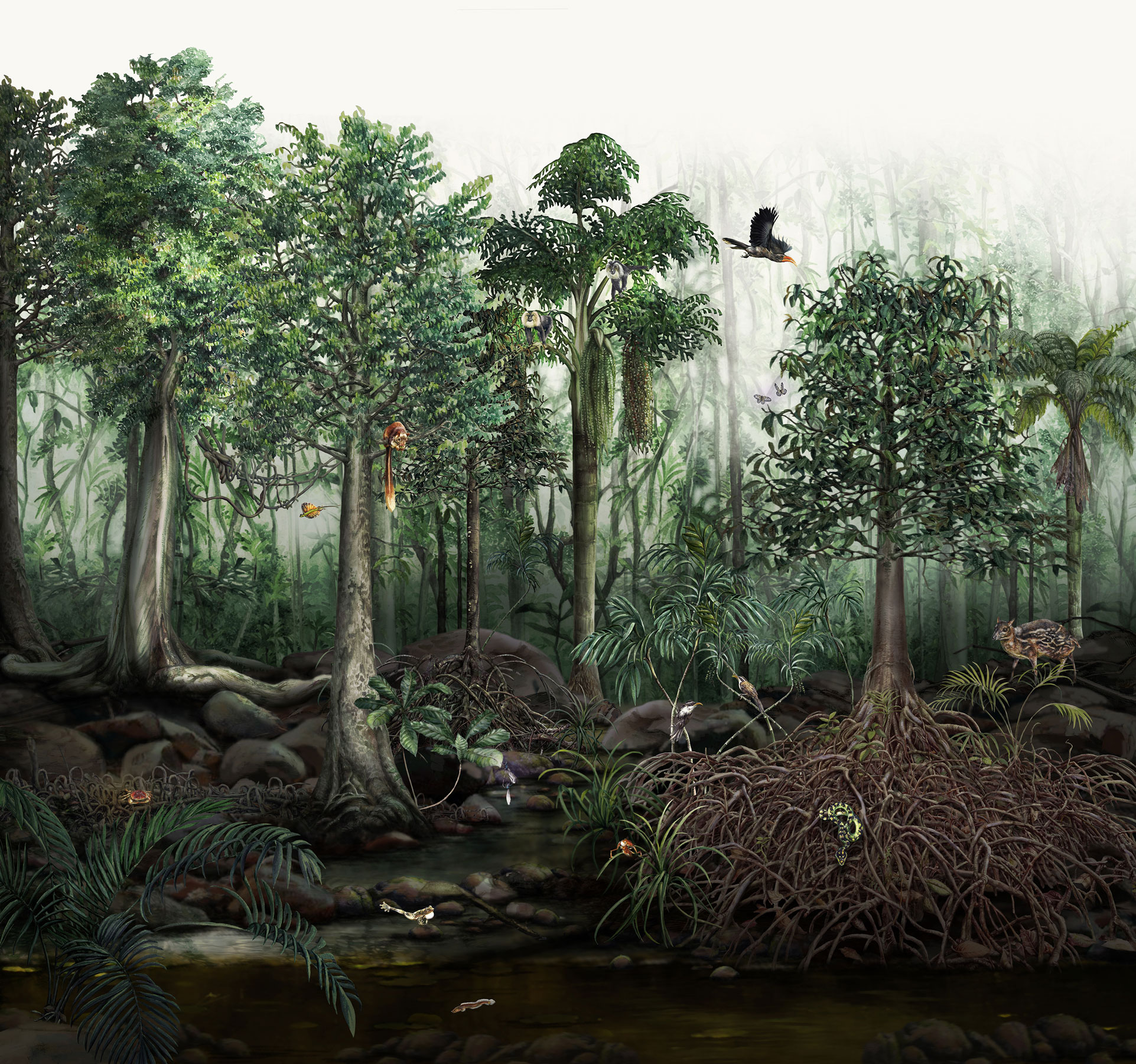
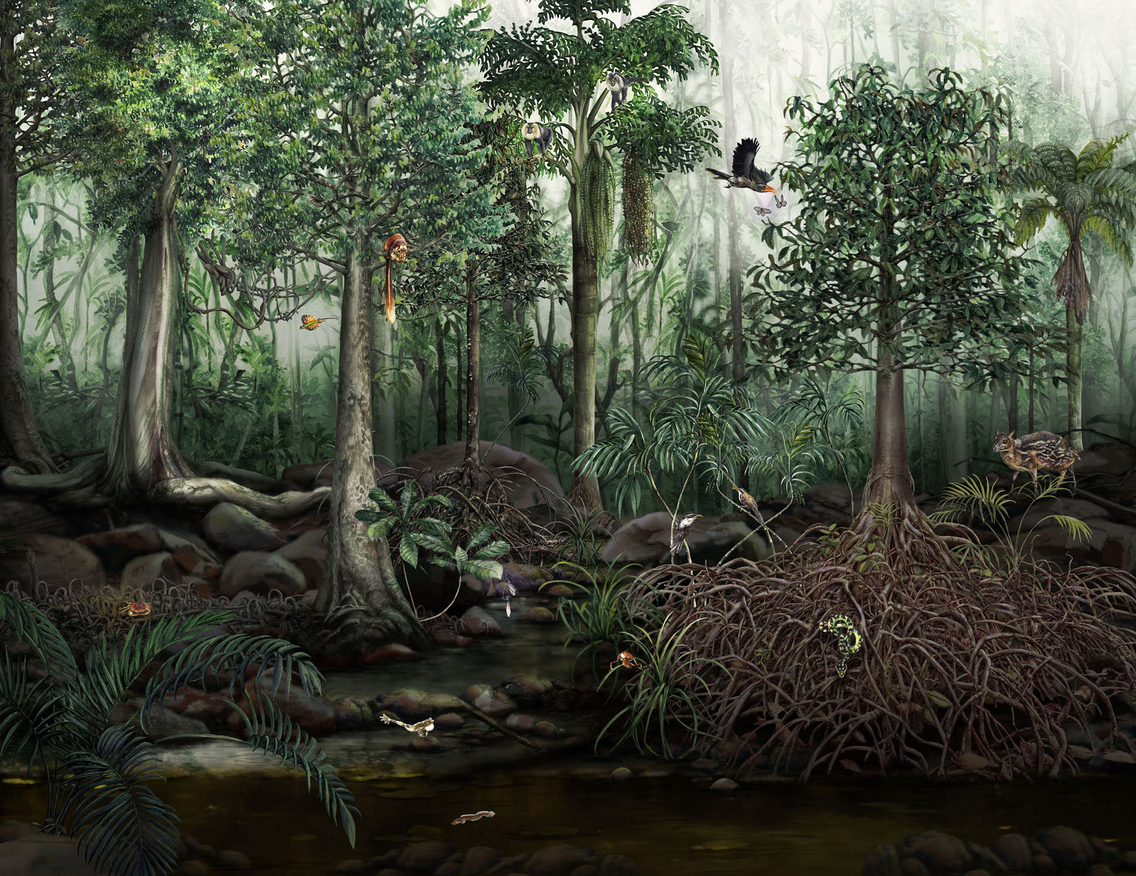
img edit

diff --git a/app/Data/Info.tsx b/app/Data/Info.tsx
@@ -1,7 +1,7 @@
 export const info=[
     {
         
-        position:{left:'65.6%',top:'22.4%'},
+        position:{left:'65.6%',top:'5.4%'},
         img_url:"/hornbill.jpg",
         title:"Malabar Grey Hornbill",
         sciName:"Ocyceros griseus",
@@ -12,7 +12,7 @@ export const info=[
     },
     {
        
-        position:{left:'95.6%',top:'32.4%'},
+        position:{left:'94.6%',top:'15.4%'},
         img_url:"/02-04-tree-fern.jpg",
         title:"Nilgiri Tree Fern",
         sciName:"Cyathea nilgiriensis",
@@ -24,7 +24,7 @@ export const info=[
     ,
     {
        
-        position:{left:'47.6%',top:'30.4%'},
+        position:{left:'47.6%',top:'2.4%'},
         img_url:"/02-04-macaque-768x579.jpg",
         title:"Lion-Tailed Macaques",
         sciName:"Macaca silenus",
@@ -36,7 +36,7 @@ export const info=[
     ,
     {
        
-        position:{left:'33.6%',top:'41.4%'},
+        position:{left:'33.6%',top:'21.4%'},
         img_url:"/02-04-squirrel-768x579.jpg",
         title:"Malabar Giant Squirrel",
         sciName:"Ratufa indica",
@@ -48,7 +48,7 @@ export const info=[
     ,
     {
        
-        position:{left:'27.6%',top:'47.4%'},
+        position:{left:'27.6%',top:'30.4%'},
         img_url:"/02-04-lizard-768x579.jpg",
         title:"Indian Flying Lizard",
         sciName:"Draco dussumieri",
@@ -60,7 +60,7 @@ export const info=[
     ,
     {
        
-        position:{left:'13.6%',top:'57.4%'},
+        position:{left:'12.6%',top:'57.4%'},
         img_url:"/02-04-lophopetalum-768x579.jpg",
         title:"Wight’s Crest-Petal",
         sciName:"Lophopetalum wightianum",
@@ -72,7 +72,7 @@ export const info=[
     ,
     {
        
-        position:{left:'88.6%',top:'60.4%'},
+        position:{left:'88.6%',top:'52.4%'},
         img_url:"/02-04-mouse-deer-768x579.jpg",
         title:"Indian Mouse Deer (Chevrotain)",
         sciName:"Moschiola indica",
@@ -83,7 +83,7 @@ export const info=[
     ,
     {
        
-        position:{left:'78.6%',top:'65.4%'},
+        position:{left:'78.6%',top:'78.4%'},
         img_url:"/02-04-myristica-768x579.jpg",
         title:"Magnificent Nutmeg",
         sciName:"Myristica magnifica",
@@ -94,7 +94,7 @@ export const info=[
     ,
     {
        
-        position:{left:'60.6%',top:'66.4%'},
+        position:{left:'60.6%',top:'64.4%'},
         img_url:"/02-04-warblers-768x579.jpg",
         title:"Indian Scimitar Babbler",
         sciName:"Pomatorhinus horsfieldii",
@@ -127,7 +127,7 @@ export const info=[
     ,
     {
        
-        position:{left:'54.6%',top:'79.4%'},
+        position:{left:'54.6%',top:'85.4%'},
         img_url:"/02-04-mercuriana-768x579.jpg",
         title:"Myristica Swamp Tree Frog",
         sciName:"Mercurana myristicapalustris",
@@ -138,7 +138,7 @@ export const info=[
     ,
     {
        
-        position:{left:'73.6%',top:'76.4%'},
+        position:{left:'73.6%',top:'80.4%'},
         img_url:"/02-04-pit-viper-768x579.jpg",
         title:"Malabar Pit Viper",
         sciName:"Trimersurus malabaricus",
@@ -149,7 +149,7 @@ export const info=[
     ,
     {
        
-        position:{left:'15.6%',top:'72.4%'},
+        position:{left:'15.6%',top:'75.4%'},
         img_url:"/02-04-gymnacranthera-768x579.jpg",
         title:"Kanara Nutmeg",
         sciName:"Gymnacranthera canarica",
@@ -160,7 +160,7 @@ export const info=[
     ,
     {
        
-        position:{left:'10.6%',top:'74.4%'},
+        position:{left:'10.6%',top:'79.4%'},
         img_url:"/02-04-crab.jpg",
         title:"Crab",
         sciName:"Barytelphusa guerini",
@@ -171,7 +171,7 @@ export const info=[
     ,
     {
        
-        position:{left:'20.6%',top:'79.4%'},
+        position:{left:'20.6%',top:'85.4%'},
         img_url:"/02-04-arenga.jpg",
         title:"Wight’s Sago Palm",
         sciName:"Arenga wightii",
@@ -182,7 +182,7 @@ An endemic Indian palm. Spot two other palm species in the swamp.
     ,
     {
        
-        position:{left:'35.6%',top:'85.4%'},
+        position:{left:'35.6%',top:'90.4%'},
         img_url:"/02-04-micrixalus-768x579.jpg",
         title:"Kottigehar Dancing Frog",
         sciName:"Micrixalus kottigeharensis",
@@ -193,7 +193,7 @@ The frog family Micrixalidae diverged from all other amphibian species about 70 
     ,
     {
        
-        position:{left:'40.6%',top:'93.4%'},
+        position:{left:'46.6%',top:'86.4%'},
         img_url:"/02-04-gollum.jpg",
         title:"Gollum Snakehead",
         sciName:"Aenigmachanna gollum",

diff --git a/app/page.tsx b/app/page.tsx
@@ -3,26 +3,34 @@ import { info } from "./Data/Info";
 
 export default function Home() {
   return (
-   <div className="relative w-full">
-  <Image
-    src="/Swamps-Infographic.jpg"
-    alt="Annual Report 2025–2026"
-    width={775}
-    height={1000}
-    className="block w-full h-auto"
-  />
+    <div className="relative w-full">
+      <div className="w-full h-screen relative">
+        <Image
+          src="/Swamps-Infographic7.jpg"
+          alt="swamp"
+          fill
+          loading="eager"
+          priority
 
-  {/* Hotspot 1 */}
-  {info.map((item,i)=>(
-    <div key={i}
-    className="group absolute"
-    style={{
-      left: item.position.left,
-      top: item.position.top,
-    }}
-  >
-    <button
-      className="
+          className="block w-auto h-screen object-cover"
+        />
+      </div>
+
+
+
+
+
+      {/* Hotspot 1 */}
+      {info.map((item, i) => (
+        <div key={i}
+          className="group absolute"
+          style={{
+            left: item.position.left,
+            top: item.position.top,
+          }}
+        >
+          <button
+            className="
         relative
         w-4 h-4
         rounded-full
@@ -31,8 +39,8 @@ export default function Home() {
         shadow-lg
         cursor-pointer
       "
-    >
-      <span className="
+          >
+            <span className="
         absolute
         inset-0
         rounded-full
@@ -40,50 +48,60 @@ export default function Home() {
         animate-ping
         opacity-50
       " />
-    </button>
+          </button>
 
-    {/* Popup */}
-    <div className={`
+          {/* Popup */}
+          <div className={`
       absolute
-      ${Number(item.position.left.split("%")[0])>40?"right-full":"left-full"}
-      ${Number(item.position.top.split("%")[0])>40?"-translate-y-[50%]":""}
-      ${Number(item.position.top.split("%")[0])>70?"-translate-y-[70%]":""}
-      ${Number(item.position.top.split("%")[0])>75?"-translate-y-[100%]":""}
+      ${Number(item.position.left.split("%")[0]) > 40 ? "right-full" : "left-full"}
+      ${Number(item.position.top.split("%")[0]) > 40 ? "-translate-y-[50%]" : ""}
+      ${Number(item.position.top.split("%")[0]) > 70 ? "-translate-y-[70%]" : ""}
+      ${Number(item.position.top.split("%")[0]) > 75 ? "-translate-y-[100%]" : ""}
       
       mb-4
       
       hidden
       group-hover:block
       group-focus-within:block
-      w-[30vw]
+      w-[20vw]
       rounded-lg
       bg-white
       
       shadow-xl
       z-20
     `}>
-      <img 
-      src={item.img_url}
 
-      />
-      <div className="p-4 px-8">
-        <h3 className="font-bold text-xl text-green-700">{item.title}</h3>
-        <i className="text-green-700 text-sm">{item.sciName}</i>
-      <div className=" mt-1 text-sm">
-       {item.content}
-      </div>
-      </div> 
-      
-    </div>
-  </div>
+            {/* <Image
+              src={item.img_url}
+              alt=""
+              width={200}
+              height={500}
+              className="w-auto h-auto"
 
-  ))}
+            /> */}
+            <img src={item.img_url} alt="" />
 
 
-  
 
-  
-  {/* <div
+
+            <div className="p-4 px-8">
+              <h3 className="font-bold text-xl text-green-700">{item.title}</h3>
+              <i className="text-green-700 text-sm">{item.sciName}</i>
+              <div className=" mt-1 text-sm">
+                {item.content}
+              </div>
+            </div>
+
+          </div>
+        </div>
+
+      ))}
+
+
+
+
+
+      {/* <div
     className="group absolute"
     style={{
       left: '47.1%',
@@ -134,6 +152,6 @@ export default function Home() {
       </p>
     </div>
   </div> */}
-</div>
+    </div>
   );
 }
